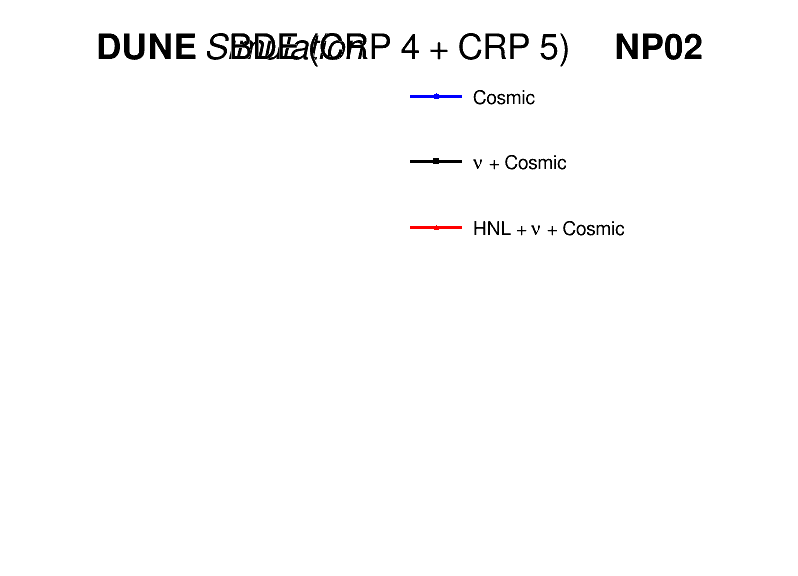
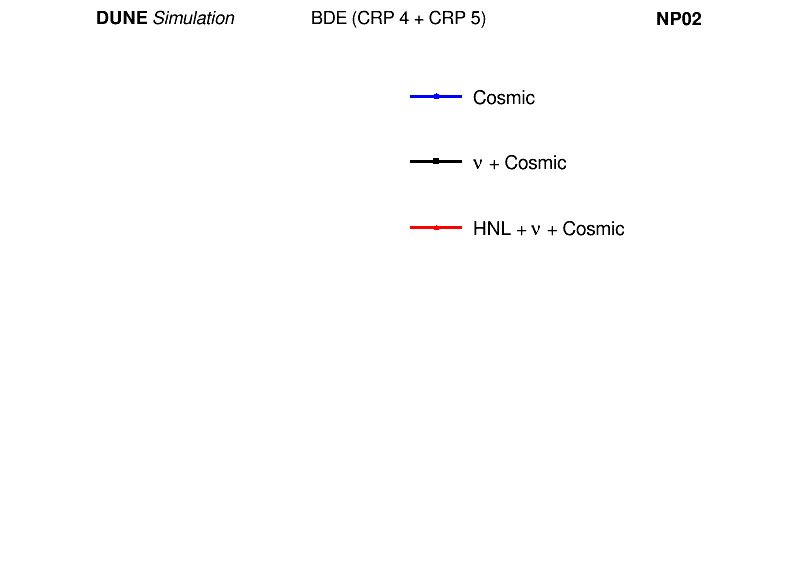
Updating and syncing

Changed region(s): [[0.1203, 0.0, 0.7218, 0.125], [0.7519, 0.0, 0.9023, 0.125]]

diff --git a/efficiency_hnl_nu_cos.C b/efficiency_hnl_nu_cos.C
@@ -157,13 +157,13 @@ void efficiency_hnl_nu_cos() {
     effHNL->SetMarkerColorAlpha(kRed, 0.6);
 
     effCos->SetTitle(";ADC Integral Sum Cut (ADC);Trigger Efficiency [%]");
-    effCos->GetHistogram()->SetMinimum(0);
-    effCos->GetHistogram()->SetMaximum(105);
-    effCos->GetXaxis()->SetLimits(1e5, 40e6);
 
     effCos->Draw("ALP");
     effNeu->Draw("LP SAME");
     effHNL->Draw("LP SAME");
+    effCos->GetHistogram()->SetMinimum(0);
+    effCos->GetHistogram()->SetMaximum(105);
+    effCos->GetXaxis()->SetLimits(1e5, 40e6);
 
     auto getEff = [](TGraph* g, double x){
 	Double_t *xp = g->GetX(), *yp = g->GetY();
@@ -218,19 +218,20 @@ void efficiency_hnl_nu_cos() {
 
     //TPad
     c->cd();
-    TPad* headerPad = new TPad("heaaderPad", "", 0, 0.88, 1, 1);
-    headerPad->SetTopMargin(0);
-    headerPad->SetBottomMargin(0);
-    headerPad->SetLeftMargin(0.12);
-    headerPad->SetRightMargin(0.15);
+    TPad* headerPad = new TPad("heaaderPad", "", 0, 0.95, 1, 1);
+    //headerPad->SetTopMargin(0);
+    //headerPad->SetBottomMargin(0);
+    //headerPad->SetLeftMargin(0.12);
+    //headerPad->SetRightMargin(0.15);
     headerPad->SetFillStyle(4000);
+    headerPad->SetFillColor(0);
     headerPad->Draw();
     headerPad->cd();
 
     TLatex tex;
     tex.SetNDC();
     tex.SetTextFont(42);
-    tex.SetTextSize(0.55);
+    tex.SetTextSize(0.65);
 
     tex.SetTextAlign(11);
     tex.DrawLatex(0.12, 0.15, "#bf{DUNE} #it{Simulation}");
